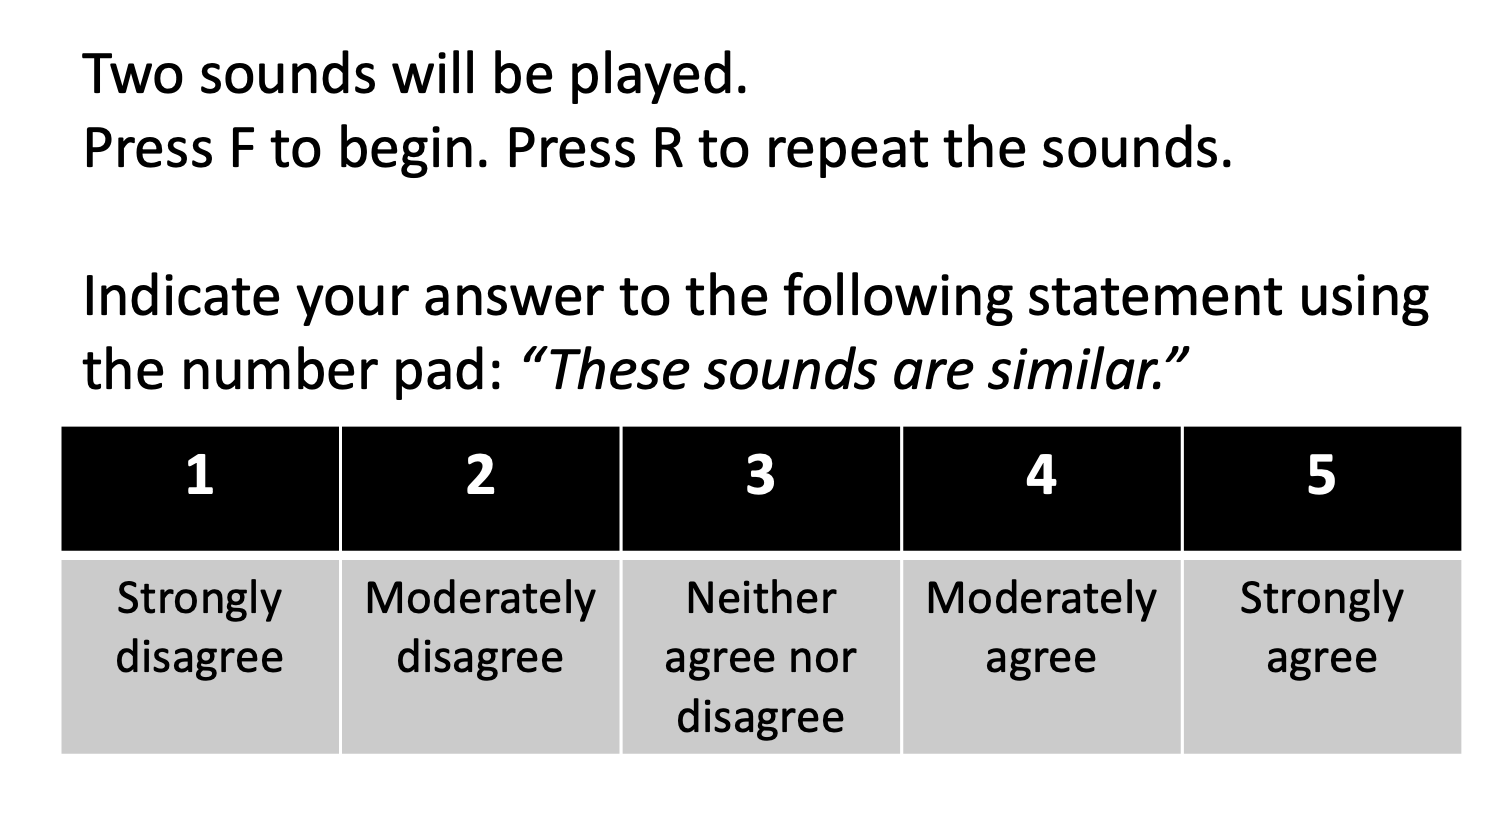
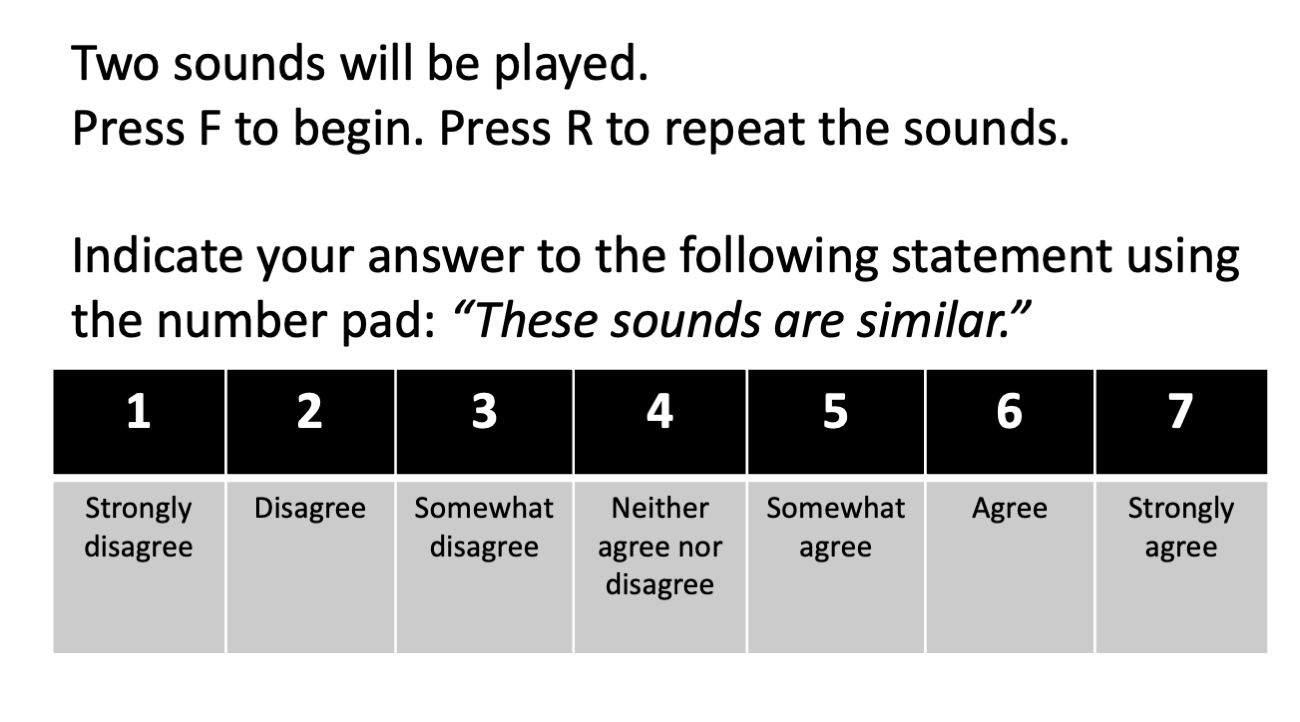
Bug fixes and improvements

diff --git a/code/utils/follow_up.m b/code/utils/follow_up.m
@@ -21,8 +21,8 @@
 %       Frequency associated with target_sound
 %   - n_trials: Positive number, name-value, default: inf
 %       Number of trials to use for reconstruction. Uses all data if `inf`.
-%   - version: Positive number, name-value, default: 1
-%       Question version number.
+%   - version: Positive number, name-value, default: 0
+%       Question version number. Must be passed or in config.
 %   - config_file: character vector, name-value, default: ``''``
 %       A path to a YAML-spec configuration file.
 %   - fig: matlab.ui.Figure, name-value.
@@ -44,7 +44,7 @@ function follow_up(options)
         options.target_sound (:,1) {mustBeNumeric} = []
         options.target_fs {mustBeNonnegative} = 0
         options.n_trials (1,1) {mustBePositive} = inf
-        options.version (1,1) {mustBePositive} = 1
+        options.version (1,1) {mustBePositive} = 0
         options.config_file (1,:) char = ''
         options.mult (1,1) {mustBePositive} = 0.01
         options.binrange (1,1) {mustBeGreaterThanOrEqual(options.binrange,1), ...
@@ -71,7 +71,9 @@ function follow_up(options)
 
     % Hash config if necessary
     if isempty(options.this_hash)
-        options.this_hash = get_hash(config);
+        this_datetime = datetime('now', 'Timezone', 'local');
+        posix_time = num2str(floor(posixtime(this_datetime)));
+        options.this_hash = [get_hash(config), '_', posix_time];
     end
 
     % n_trials can't be more than total data
@@ -97,9 +99,11 @@ function follow_up(options)
         options.target_sound = options.target_sound(1:floor(0.5 * options.target_fs));
     end
 
-    % Get version from config (otherwise use default = 1).
-    if isfield(config, 'follow_up_version') && ~isempty(config.follow_up_version)
+    % Use supplied version or take from config if not supplied.  
+    if options.version < 1 && isfield(config, 'follow_up_version') && ~isempty(config.follow_up_version)
         options.version = config.follow_up_version;
+    elseif options.version < 1
+        error('No version supplied and no version available in config.')
     end
 
     %% Setup
@@ -126,11 +130,8 @@ function follow_up(options)
     recon_binrep = rescale(reconstruction, -20, 0);
     recon_spectrum = stimgen.binnedrepr2spect(recon_binrep);
  
-    if ~isempty(options.target_sound)
-        [~, freqs] = wav2spect(config.target_signal_filepath);
-    else
-        freqs = linspace(1, floor(Fs/2), length(recon_spectrum))'; % ACL
-    end
+    % Create frequency vector 
+    freqs = linspace(1, floor(Fs/2), length(recon_spectrum))' - 1; 
 
     recon_spectrum(freqs(1:length(recon_spectrum),1) > config.max_freq) = -20;
     recon_waveform_standard = stimgen.synthesize_audio(recon_spectrum, stimgen.get_nfft());
@@ -153,7 +154,7 @@ function follow_up(options)
     if isempty(options.target_sound)
         d = dir(pathlib.join(img_dir, '*Q*_patient.png'));
     else
-        d = dir(pathlib.join(img_dir, '*Q*.png'));
+        d = dir(pathlib.join(img_dir, '*Q*_healthy.png'));
     end
 
     static_qs = cell(length(d),1);
@@ -200,6 +201,7 @@ function follow_up(options)
         end
     else
         % Auto-fill static question headers
+        % Either "QX," or "QXX,"
         if length(static_qs) < 10
             inds = 1:3:(3*length(static_qs))+1;
             staticqs_header = blanks(3*length(static_qs));
@@ -208,10 +210,11 @@ function follow_up(options)
             staticqs_header = blanks(4*(length(static_qs)-9)+27);
         end
 
-        for i = length(static_qs)
+        for i = 1:length(static_qs)
             staticqs_header(inds(i):inds(i+1)-1) = ['Q', num2str(i), ','];
         end
 
+        % Put sounds in a random order
         order = randperm(n_sounds);
         comparison{order(1),1} = noise_waveform;
         comparison{order(1),2} = 'whitenoise';
@@ -221,12 +224,12 @@ function follow_up(options)
         comparison{order(3),2} = 'recon_adjusted';
 
         % Write header
-        fprintf(fid_survey, ['version,','mult,','binrange,', ...
-            staticqs_header,comparison{1,2},',', ...
-            comparison{2,2},',',comparison{3,2},'\n']);
-        
-        % Write version, mult, and binrange params to file.
-        fprintf(fid_survey, [num2str(options.version),',', ...
+        fprintf(fid_survey, ['hash,','version,', ...
+            'mult,','binrange,', staticqs_header, ...
+            comparison{1,2},',',comparison{2,2},',',comparison{3,2},'\n']);
+
+        % Write config hash, version, mult, and binrange params to file.
+        fprintf(fid_survey, [get_hash(config),',',num2str(options.version),',', ...
             num2str(options.mult),',',num2str(options.binrange),',']);
     end
 
@@ -284,18 +287,27 @@ function follow_up(options)
             return
         end
 
-        play_sounds(options.target_sound, options.target_fs, comparison{i}, Fs)
+        play_sounds(options.target_sound, options.target_fs, comparison{i,1}, Fs)
 
         % Get key press or repeat sounds
         while ~(value < 0)
-            value = readkeypress([49:53, 114], 'verbose', options.verbose); % r - 114
-            if value == 114
-                play_sounds(options.target_sound, options.target_fs, comparison{i}, Fs)
+            if options.version == 1
+                value = readkeypress([49:53, 114], 'verbose', options.verbose); % r - 114
             else
+                value = readkeypress([49:55, 114], 'verbose', options.verbose); % r - 114
+            end
+            if value == 114
+                play_sounds(options.target_sound, options.target_fs, comparison{i,1}, Fs)
+            else
+                % Write response to file
                 if options.version == 1
                     fprintf(fid_survey, [char(value), '\n']);
                 else
-                    fprintf(fid_survey, [char(value), ',']);
+                    if i < length(sound_screens)
+                        fprintf(fid_survey, [char(value), ',']);
+                    else
+                        fprintf(fid_survey, char(value));
+                    end
                 end
                 break
             end

diff --git a/code/stimulus_generation/@AbstractBinnedStimulusGenerationMethod/AbstractBinnedStimulusGenerationMethod.m b/code/stimulus_generation/@AbstractBinnedStimulusGenerationMethod/AbstractBinnedStimulusGenerationMethod.m
@@ -149,8 +149,9 @@ methods
         %   - binned_repr: `n_bins x 1` numerical vector
         %       representing the amplitude in each frequency bin.
         %   - mult: `1 x 1` scalar, the peak sharpening factor.
-        %   - binrange: `1 x 1` scalar, the upper bound of the 
-        %       dynamic range of the stimuli from [0, binrange]
+        %   - binrange: `1 x 1` scalar, must be between [1, 100],
+        %       the upper bound of the dynamic range of the 
+        %       stimuli from [0, binrange]
         %   - new_n_bins: `1 x 1` scalar, default: 256,
         %       the number of bins to upsample to before synthesis.
         %
@@ -163,7 +164,7 @@ methods
         % See Also:
         % binnedrepr2spect
         % spect2binnedrepr
-        
+
         arguments
             self (1,1) AbstractBinnedStimulusGenerationMethod
             binned_rep (:,1) {mustBeReal}

diff --git a/code/utils/adjust_resynth.m b/code/utils/adjust_resynth.m
@@ -2,7 +2,7 @@ function [mult, binrange] = adjust_resynth(mult, binrange, options)
     arguments
         mult (1,1) {mustBePositive} = 0.001
         binrange (1,1) {mustBeGreaterThanOrEqual(binrange,1), ...
-        mustBeLessThanOrEqual(binrange,100)}  = 60
+        mustBeLessThanOrEqual(binrange,100)} = 60
         options.fig matlab.ui.Figure
         options.data_dir char = ''
         options.this_hash char = ''
